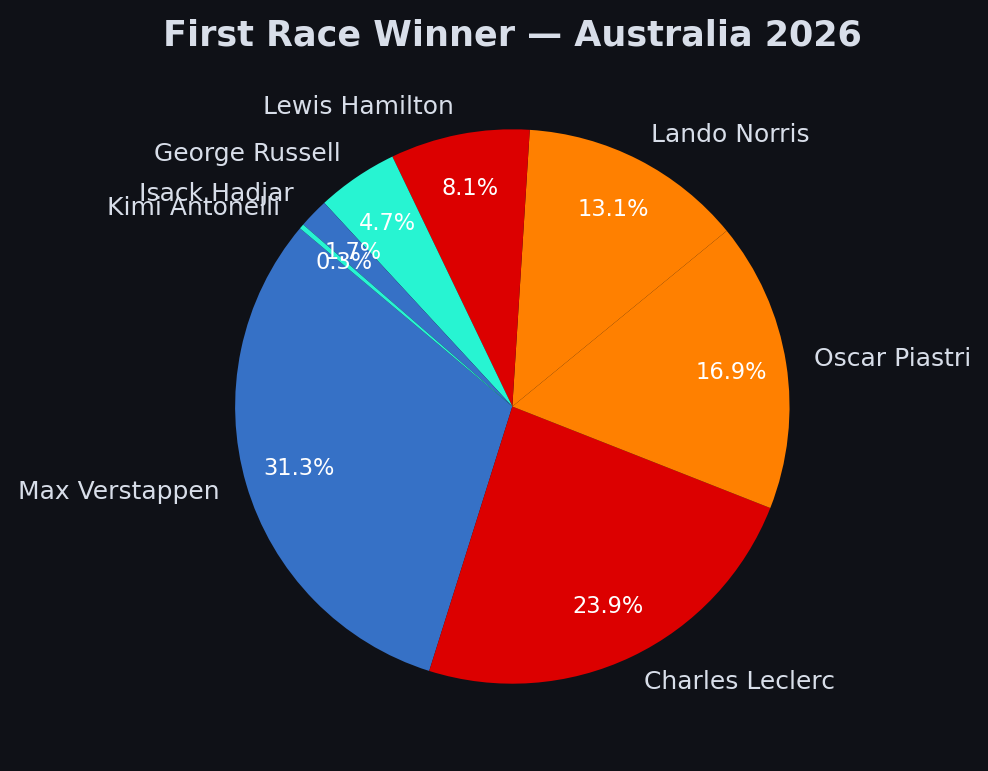
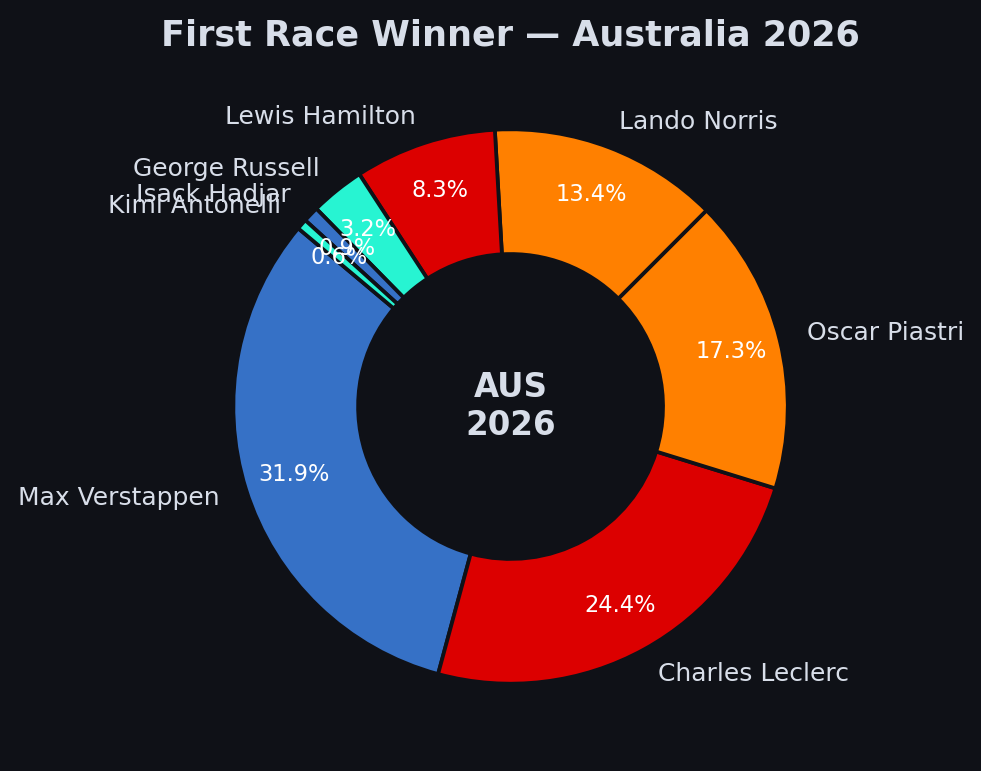
Change first race winner chart from pie to donut

diff --git a/visualizations.py b/visualizations.py
@@ -225,12 +225,16 @@ def plot_first_race_winner(sim_results, out_dir):
     fig, ax = plt.subplots(figsize=(8, 5))
     wedges, texts, autotexts = ax.pie(
         probs, labels=drivers, colors=colours, autopct="%1.1f%%",
-        startangle=140, pctdistance=0.8,
+        startangle=140, pctdistance=0.82,
+        wedgeprops=dict(width=0.45, edgecolor="#0f1117", linewidth=1.5),
         textprops={"color": "#d8dee9", "fontsize": 10},
     )
     for t in autotexts:
         t.set_color("#ffffff")
         t.set_fontsize(9)
+    # Center label
+    ax.text(0, 0, "AUS\n2026", ha="center", va="center",
+            fontsize=13, fontweight="bold", color="#d8dee9")
     ax.set_title("First Race Winner — Australia 2026", fontsize=14, fontweight="bold")
     _save(fig, "first_race_winner.png", out_dir)
 
